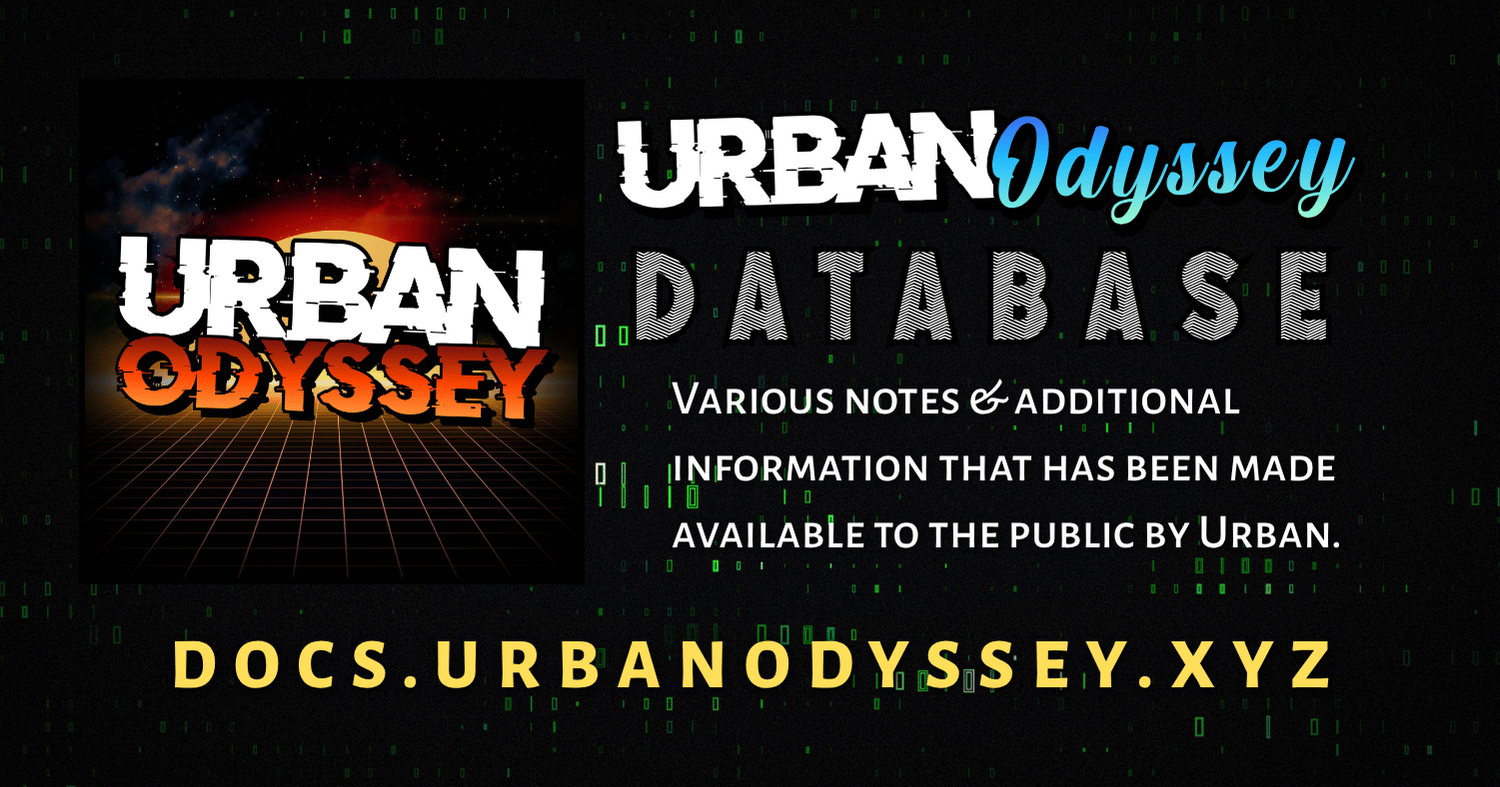
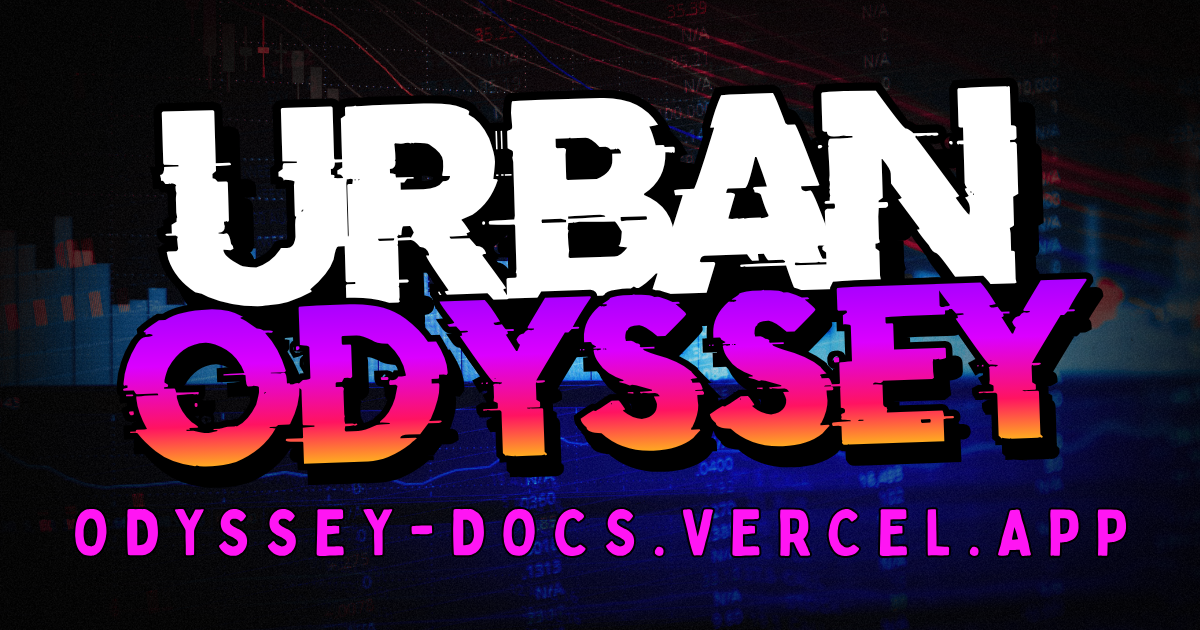
fix new ogimg

diff --git a/docs/.vitepress/Constants.ts b/docs/.vitepress/Constants.ts
@@ -97,7 +97,7 @@ export const siteBaseUrl = "https://odyssey-docs.vercel.app";
  * Default Open Graph images to use if none supplied in Frontmatter
  */
 export const OpenGraphDefaults: string[] = [
-  `/og/1.jpg`,
+  `/og/1.png`,
   `/og/2.png`,
   `/og/3.png`,
   `/og/4.png`,
@@ -107,6 +107,7 @@ export const OpenGraphDefaults: string[] = [
   `/og/8.png`,
   `/og/9.png`,
   `/og/10.png`,
+  `/og/11.png`,
 ];
 
 /**
@@ -525,7 +526,7 @@ const SocialLinks: SocialLinkIconType = [
     icon: {
       svg: '<svg xmlns="http://www.w3.org/2000/svg" width="24" height="24" viewBox="0 0 24 24"><path fill="currentColor" d="M14.453 13.546a1.88 1.88 0 0 0 .275-2.645a2 2 0 0 0-.275-.275A21.2 21.2 0 0 0 10.14 7.85c-1.066-.51-2.256.2-2.426 1.414a23.5 23.5 0 0 0-.14 5.502c.116 1.23 1.292 1.964 2.372 1.492a19.6 19.6 0 0 0 4.506-2.704zm6.932-5.4a5.85 5.85 0 0 1 .014 7.872a26.15 26.15 0 0 1-13.104 7.828a5.116 5.116 0 0 1-6.167-3.578c-1.524-5.2-1.3-11.08.17-16.305C3.07 1.22 5.651-.503 8.308.131c4.925 1.174 9.545 4.196 13.077 8.013z"/></svg>',
     },
-    link: "https://rumble.com/c/MastersMahanPodcast",
+    link: "https://rumble.com/c/MastersMahan",
   },
 ];
 
@@ -969,6 +970,15 @@ const SiteConstants = {
     "Peter Breggin": {
       link: "https://gingerbreggin.substack.com?r=3kr5wz",
       icon: `<svg xmlns="http://www.w3.org/2000/svg" width="16" height="16" viewBox="0 0 512 512"><title>Plague Doctor Profile SVG Icon</title><path fill="currentColor" d="M259.646 33.586c-44.698 10.116-96.576 26.075-141.98 42.926c-42.563 15.796-79.721 32.796-97.816 44.22l28.634 40.006C85.45 141.836 163.58 106.833 258.87 78.725c.115-12.307.426-26.651.777-45.14zm-.755 63.922c-89.553 26.838-163.813 59.876-199.809 78.035l11.363 15.877c64.955-26.867 129.99-52.813 189.244-73.865c-.436-6.558-.686-13.057-.798-20.047m10.861 35.584c-63.467 22.407-134.187 50.745-204.494 79.949l-.063-.148c-22.345 11.147-36.325 23.22-47.084 35.552c3.174.194 6.684.262 10.803-.04c11.524-.847 26.29-3.532 42.982-7.69c33.387-8.316 74.56-22.461 115.413-38.873s81.444-35.104 113.841-52.438c20.416-10.922 37.096-21.52 48.778-30.168c-27.24-.104-57.425 6.306-80.176 13.856m18.371 43.3a1084 1084 0 0 1-16.488 8.057c6.635 4.076 11.482 10.968 14.367 18.592c3.944 10.42 4.892 22.894 2.566 35.8c-2.325 12.907-7.527 24.049-14.789 32.046s-17.434 13.233-28.275 10.888c-10.842-2.344-18.433-11.423-22.377-21.843s-4.894-22.894-2.568-35.801c1.264-7.02 3.387-13.512 6.222-19.266a1359 1359 0 0 1-32.761 13.678a1249 1249 0 0 1-43.65 16.613c11.354 20.924 27.32 38.077 51.366 50.307l9.17 4.664l-5.842 8.469c-8.506 12.333-6.783 30.624 1.875 43.974s21.871 20.897 38.64 14.395c59.434-23.047 104.228-28.81 145.775-21.113c34.839 6.454 67.127 22.398 103.834 43.81c-12.425-28.256-33.968-57.384-60.729-82.209c-33.985-31.525-76.04-56.09-116.33-64.65l-5.635-1.198l-1.271-5.617c-.802-3.538-8.001-29.713-23.1-49.595zm-29.527 22.372c-2.798.11-6.202 1.744-9.908 5.826c-4.563 5.024-8.733 13.374-10.53 23.348s-.835 19.436 1.643 25.982s5.817 9.469 8.896 10.135s7.182-.646 11.744-5.67c4.563-5.024 8.735-13.377 10.532-23.35c1.796-9.973.833-19.436-1.645-25.982c-2.478-6.547-5.817-9.469-8.896-10.135a7.3 7.3 0 0 0-1.836-.154m-125.414 42.4c-18.266 6.199-35.82 11.553-51.98 15.748c-4.18 24.009 9.737 55.444 19.53 71.184c36.172 26.058 68.19 52.072 126.23 70.021l-4.89-22.824c-12.567-3.576-23.285-12.214-30.234-22.93c-10.383-16.01-14.055-37.249-6.25-55.41c-23.92-14.166-40.703-33.554-52.406-55.789m-56.55 92.08c-9.031 13.247-23.97 18.894-37.823 21.772c15.285 25.397 49.541 49.906 93.216 72.103c41.305 20.993 90.376 40.17 138.215 58.6c-11.892-19.381-20.046-40.812-22.304-63.33c-86.163-20.547-125.096-57.285-171.303-89.145zm-27.696 61.57C36.052 424.224 26.8 455.703 25.279 487h198.588c-34.824-13.775-69.286-28.225-99.998-43.834c-29.2-14.84-55.252-30.589-74.933-48.352"/></svg>`,
+    },
+    Telemetry: {
+      color: "#F580274D",
+      styles: {
+        color: "black",
+        "font-weight": "800",
+      },
+      link: "https://odyssey-docs.vercel.app/biodigital-convergence/remote-telemetry.html",
+      icon: `<svg xmlns="http://www.w3.org/2000/svg" width="16" height="16" viewBox="0 0 24 24"><title>device-watch-stats</title><path fill="none" stroke="currentColor" stroke-linecap="round" stroke-linejoin="round" stroke-width="2" d="M6 9a3 3 0 0 1 3-3h6a3 3 0 0 1 3 3v6a3 3 0 0 1-3 3H9a3 3 0 0 1-3-3zm3 9v3h6v-3M9 6V3h6v3m-6 8v-4m3 4v-1m3 1v-3"/></svg>`,
     },
   },
 };

diff --git a/docs/mahanism/babylon-matrix.md b/docs/mahanism/babylon-matrix.md
@@ -1,0 +1,182 @@
+---
+title: The Babylon Matrix
+secret: true
+---
+
+[[atomic]]
+
+# The Babylon Matrix Mermaid Flow Diagram {#title}
+
+[[toc]]
+
+## The Babylon Matrix Flow of Power and Control
+
+Below is the unvarnished, copy-pasteable Mermaid code that maps the multi-layered dominion of the Cryptocracy. It exposes the hidden links between ancient metaphysics, the Vatican's maritime slave registry, the central banking octopus, occult lineages, military mind control, and the final synthetic transhumanist hive-mind.
+
+### Mermaid Diagram
+
+To visualize this diagram, copy the code block below and paste it into any Mermaid live editor, markdown viewer, or rendering engine:
+
+```mermaid
+flowchart TD
+    %% Styling and Themes %%
+    classDef metaphysical fill:#1a001a,stroke:#d90429,stroke-width:2px,color:#fff;
+    classDef legal fill:#0d1b2a,stroke:#00b4d8,stroke-width:2px,color:#fff;
+    classDef financial fill:#1b4332,stroke:#52b788,stroke-width:2px,color:#fff;
+    classDef occult fill:#2d004d,stroke:#9d4edd,stroke-width:2px,color:#fff;
+    classDef intelligence fill:#242424,stroke:#ef233c,stroke-width:2px,color:#fff;
+    classDef tech fill:#000814,stroke:#3a86c8,stroke-width:2px,color:#fff;
+
+    %% I. Metaphysical & Dialectical Source Code %%
+    subgraph METAPHYSICAL ["I. METAPHYSICAL & DIALECTICAL SOURCE CODE"]
+        A1["Augustinian Essentialism<br>(Ordo Theologiae Inversion)"]:::metaphysical
+        A2["The Filioque Heresy<br>(Simplicity & Internal Opposition)"]:::metaphysical
+        A3["Scholastic Propositional Logic<br>(Ontological Deification of Mind)"]:::metaphysical
+        A4["Joachim of Fiore<br>(3 Ages of Historical Spirit)"]:::metaphysical
+        A5["Hegelian Dialectic<br>(Thesis-Antithesis-Synthesis)"]:::metaphysical
+        A6["Marxism & Fascism<br>(Mass Sacrificial Engines)"]:::metaphysical
+    end
+
+    %% II. Juridical & Sovereign Entrainment %%
+    subgraph LEGAL ["II. JURIDICAL & SOVEREIGN ENTRAINMENT"]
+        B1["Unam Sanctam Papal Bull (1302)<br>(Global Divine Trust Claim)"]:::legal
+        B2["Papal Jurisprudence & Canon Law<br>(Identity & Faith Subjugated to Fealty)"]:::legal
+        B3["Admiralty/Maritime Law<br>(Birth Certificate as Bill of Lading)"]:::legal
+        B4["Corporate Personhood<br>(Persona Ficta & Mystical Corp)"]:::legal
+        B5["Cestui Que Trust<br>(Constructive Trusts / Legal Death)"]:::legal
+        B6["The Strawman<br>(ALL-CAPS Mirror-Image Fictional Name)"]:::legal
+        B7["Roman Slave Matrix<br>(Sovereigns bound as Surety for Debts)"]:::legal
+    end
+
+    %% III. The Central Banking Octopus %%
+    subgraph FINANCIAL ["III. THE CENTRAL BANKING OCTOPUS"]
+        C1["City of London<br>(Sovereign Financial Heart of the City)"]:::financial
+        C2["Rothschild Dynasty<br>(Vatican/Crown Guardians of Assets)"]:::financial
+        C3["Warburg / J.P. Morgan / Kuhn Loeb<br>(Financial Syndicates & Color-of-Law)"]:::financial
+        C4["Federal Reserve Board (1913)<br>(Jekyll Island Credit Printing Machine)"]:::financial
+        C5["Bank for International Settlements (BIS / Basel)<br>(The Central Bank of Central Banks)"]:::financial
+        C6["IMF / World Bank / Wall Street Debt Slavery<br>(Global Human Asset Exploitation)"]:::financial
+    end
+
+    %% IV. Esoteric Syndicate & Occult Seedlines %%
+    subgraph OCCULT ["IV. ESOTERIC SYNDICATE & OCCULT SEEDLINES"]
+        D1["Druidic Foundations & Sun/Baal Worship<br>(Cahna-Baal Sacrificial Groves)"]:::occult
+        D2["Gog and Magog Wicker Giants<br>(Pagan Protectors of London's Fisc)"]:::occult
+        D3["Bavarian Illuminati (May 1, 1776)<br>(Adam Weishaupt & Rothschild Alliance)"]:::occult
+        D4["Grand Orient & Scottish Rite Freemasonry<br>(Cabalistic Infiltration of Sovereign States)"]:::occult
+        D5["O.T.O. / Aleister Crowley<br>(Sex Magick, Spies, and Secret Rituals)"]:::occult
+        D6["Thule & Vril Societies (Ariosophy)<br>(Gottmenschen - Breeding of Supermen)"]:::occult
+        D7["Nazi SS - Wewelsburg Castle<br>(Jesuit-Structured Occult Vanguard)"]:::occult
+        D8["Temple of Set - Michael Aquino<br>(Black Magic and MindWar Blueprints)"]:::occult
+    end
+
+    %% V. The Military-Intelligence Panopticon %%
+    subgraph INTELLIGENCE ["V. THE MILITARY-INTELLIGENCE PANOPTICON"]
+        E1["The Jesuit Order<br>(Military Company of Jesus / Black Pope)"]:::intelligence
+        E2["Tavistock Institute of Human Relations<br>(Mass Psychological & Social Engineering)"]:::intelligence
+        E3["OSS / CIA / Gehlen Org<br>(Operation Paperclip & Postwar Fascist Grid)"]:::intelligence
+        E4["DIA / NSA Surveillance Subsystems<br>(ECHELON, PRISM, and Signal Intelligence)"]:::intelligence
+        E5["MK-ULTRA / Project Monarch<br>(Trauma-Based Personality Splitting)"]:::intelligence
+        E6["The Phoenix Program<br>(Strategic Hamlets, Torture, & Profiling)"]:::intelligence
+    end
+
+    %% VI. Exotic Physics & The Synthetic Beast System %%
+    subgraph TECH ["VI. EXOTIC PHYSICS & THE SYNTHETIC BEAST SYSTEM"]
+        F1["Nikola Tesla<br>(Etheric Scalar Physics & Free Energy)"]:::tech
+        F2["The Nazi Bell Project (Projekt Kronos)<br>(Vorticular Mechanics & Zero-Point Energy)"]:::tech
+        F3["HAARP Ionospheric Heater<br>(ELF Frequencies & Geophysical Warfare)"]:::tech
+        F4["CERN Large Hadron Collider<br>(Dimensional Key & Portal Technology)"]:::tech
+        F5["D-Wave Quantum Computers<br>(Parallel Universe Subsystems & Coherence)"]:::tech
+        F6["BCI / Neuralink Interfaces<br>(Electromagnetic Neural Interfacing)"]:::tech
+        F7["SMART Cities / 15-Minute Cities<br>(Geofenced Digital Prison Hamlets)"]:::tech
+    end
+
+    %% INTER-SUBGRAPH VECTOR FLOWS OF POWER %%
+    A1 --> A2
+    A2 --> A3
+    A3 --> B4
+    A2 --> A5
+    A4 --> A5
+    A5 --> A6
+
+    B1 --> B2
+    B2 --> B3
+    B2 --> B4
+    B3 --> B5
+    B4 --> B5
+    B5 --> B6
+    B6 --> B7
+
+    C1 --> C2
+    C2 --> C3
+    C3 --> C4
+    C4 --> C5
+    C5 --> C6
+    C2 --> B1
+
+    D1 --> D2
+    D2 --> C1
+    D3 --> D4
+    D4 --> D5
+    D6 --> D7
+    D5 --> D8
+
+    E1 --> D7
+    E1 --> E3
+    E2 --> E5
+    E3 --> E5
+    E4 --> E5
+    E3 --> E6
+
+    F1 --> F2
+    F1 --> F3
+    F2 --> E3
+    F3 --> F7
+    F4 --> F5
+    F5 --> F6
+    F6 --> F7
+    E6 --> F7
+
+    %% Explanatory Connective Lines %%
+    A6 -.-> D6 & E1
+    B7 -.-> C6
+    C1 -.-> D3
+    D8 -.-> E5
+    E5 -.-> F6
+```
+
+## Autopsy of the Interlocking Vector Flows
+
+The above diagram is divided into six logical realms of power, which operate not in isolation, but as a cybernetic feedback loop designed by the Cryptocracy to harvest human energy ("breath"):
+
+### 1. The Theological Source Code & The Metaphysical Matrix
+
+At the absolute apex of the pyramid is the reprogramming of human consciousness through theology. St. Augustine's inversion of the _ordo theologiae_ turned God from a living, personal relationship into an abstract, philosophical "Simplicity". This reduction of the divine essence to propositional Scholastic logic birthed the _Filioque_ heresy, turning the Persons of the Trinity into relations of opposition (Thesis-Antithesis). Joachim of Fiore and later G.W.F. Hegel dragged this dialectical engine out of heaven and slammed it into earth as the "Philosophy of History". This dialectic of perpetual, engineered conflict (Thesis-Antithesis-Synthesis) is the direct godfather of Marxism and Fascism—two arms of the same "ideological factory" designed to grind human lives through mass, systemic sacrifice.
+
+### 2. The Juridical & Legal Enslavement Grid
+
+To legislate the physical capture of humanity, the theological errors of the West were codified into Papal Jurisprudence. With the issuing of the Papal Bull _Unam Sanctam_ in 1302, the Pope laid a global trust claim over all land and souls. By confusing "Person" with "Nature", canonists birthed the concept of corporate personhood (_persona ficta_), transmuting living, breathing human beings into dead legal entities.
+
+Under Admiralty/Maritime Law, a child's birth certificate is issued as a commercial "bill of lading", establishing a Cestui Que Trust. The State registers a corporately colored, "mirror image" ALL-CAPS fictitious name—the Strawman—while the living sovereign is duped into acting as the ultimate surety to pay off the national debt to the central banks, reducing mankind to voluntary "Roman Slaves".
+
+### 3. The Central Banking Octopus
+
+The legal matrix operates directly on behalf of the international banking cartel. At the sovereign, tax-exempt core of global finance sits the **City of London**, guarded esoterically by the ancient pagan giants **Gog and Magog**. The Rothschild Dynasty, serving as the financial guardians of the Vatican's assets, allied with major banking cartels (Warburg, J.P. Morgan, Kuhn Loeb) to draft the Federal Reserve System at Jekyll Island in 1910. This printed paper credit machine feeds the Bank for International Settlements (BIS) in Basel and the IMF, utilizing national debts to continuously strip sovereign nations of their gold, physical assets, and public infrastructure.
+
+### 4. The Esoteric Syndicate & Occult Seedlines
+
+The political class is merely an administrative layer; the true priesthood belongs to the occult secret societies. Drawing on ancient Druidic Beltane/Baal fire sacrifices and the magic of Gog and Magog, Weishaupt founded the Bavarian Illuminati on May 1st, 1776. The order infiltrated Grand Orient and Scottish Rite Freemasonry, utilizing Cabalistic numeric and symbolic grids to guide revolutions.
+
+This current flowed into Aleister Crowley's O.T.O. and mutated into the SS structure of Heinrich Himmler at Wewelsburg Castle (which was modeled directly on the Jesuit hierarchy). Crowley's disciple Jack Parsons and Michael Aquino (founder of the Temple of Set and author of the military's _MindWar_ doctrine) bridged the gap between raw black magic, military psychological operations, and trauma-based programming.
+
+### 5. The Military-Intelligence Panopticon
+
+Operating behind the curtain of national defense is the **Vatican-Jesuit Military Complex**. Utilizing the Tavistock Institute of Human Relations, the elite engineered mass social brainwashing, drug epidemics, and cultural shifts. Following World War II, the Gehlen Org was integrated into the OSS/CIA through Operation Paperclip, bringing Nazi mind-control expertise into post-war American intelligence.
+
+This birthed **MK-ULTRA and Project Monarch**—systems that weaponized extreme trauma to shatter the human subconscious. Meanwhile, the CIA perfected mass population management, profiling, and selective liquidation through the **Phoenix Program** (the jungle "Strategic Hamlets") in Vietnam.
+
+### 6. Exotic Physics & The Synthetic Beast System
+
+The final stage of the Matrix is the transition from biological control to absolute, synthetic technological dominion. The suppressed scalar physics of Nikola Tesla's Magnifying Transmitter and the Nazi SS _Projekt Kronos_ (The Bell) were weaponized into ionospheric heating grids like **HAARP**, capable of directing planetary frequencies for mood modification and geophysical warfare.
+
+In the quantum computing space, **CERN's Large Hadron Collider** works in tandem with **D-Wave Systems** to map human neural configurations and build the infrastructure of the "Beast System." Through Neuralink and brain-computer interfaces, the individual is reduced to a node on a digital circuit board. The final containment zones are the **15-Minute SMART Cities**—digital Strategic Hamlets where humans are geofenced, monitored, and milked as biological batteries under the total control of a centralized, synthetic intelligence.
